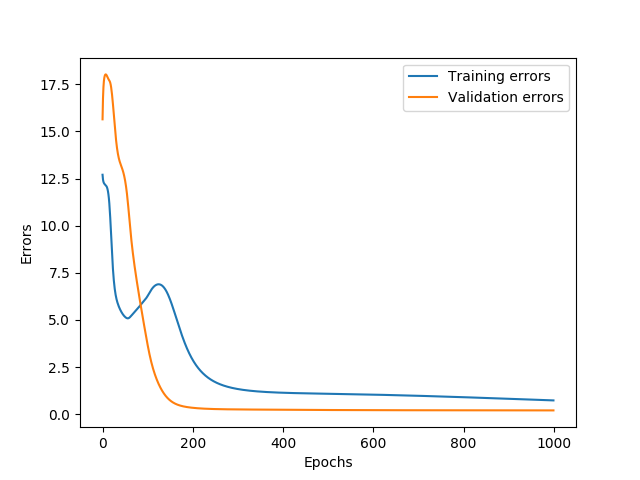
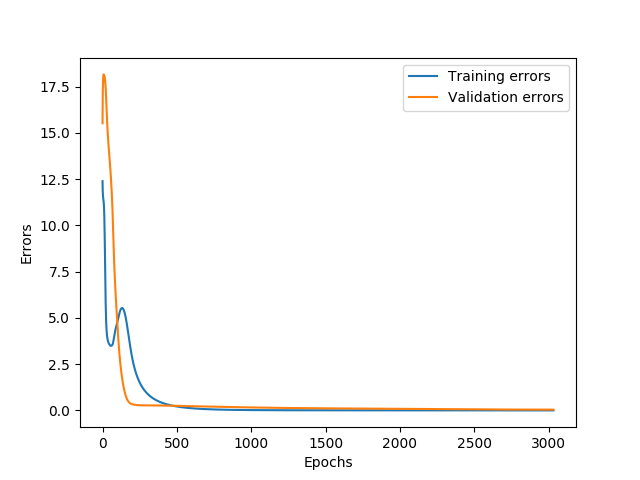
remove list in message

diff --git a/practice2/nn_iris.py b/practice2/nn_iris.py
@@ -74,7 +74,7 @@ validation_error_counter = 0
 training_errors = []
 validation_errors = []
 
-for epoch in xrange(1000):
+for epoch in xrange(5000):
 
     for jj in xrange(len(x_training_data) / batch_size):
         batch_training_xs = x_training_data[jj * batch_size: jj * batch_size + batch_size]
@@ -99,8 +99,8 @@ for epoch in xrange(1000):
             validation_error_counter += 1
             if validation_error_counter > maximum_validation_errors:
                 print "Exceeded maximum number[%d] of validation errors upticks, " \
-                      "so the training is stopped in epoch %d\n errors: %s" \
-                      % (maximum_validation_errors, epoch, validation_errors)
+                      "so the training is stopped in epoch %d" \
+                      % (maximum_validation_errors, epoch)
                 break
         else:
             validation_error_counter = 0
